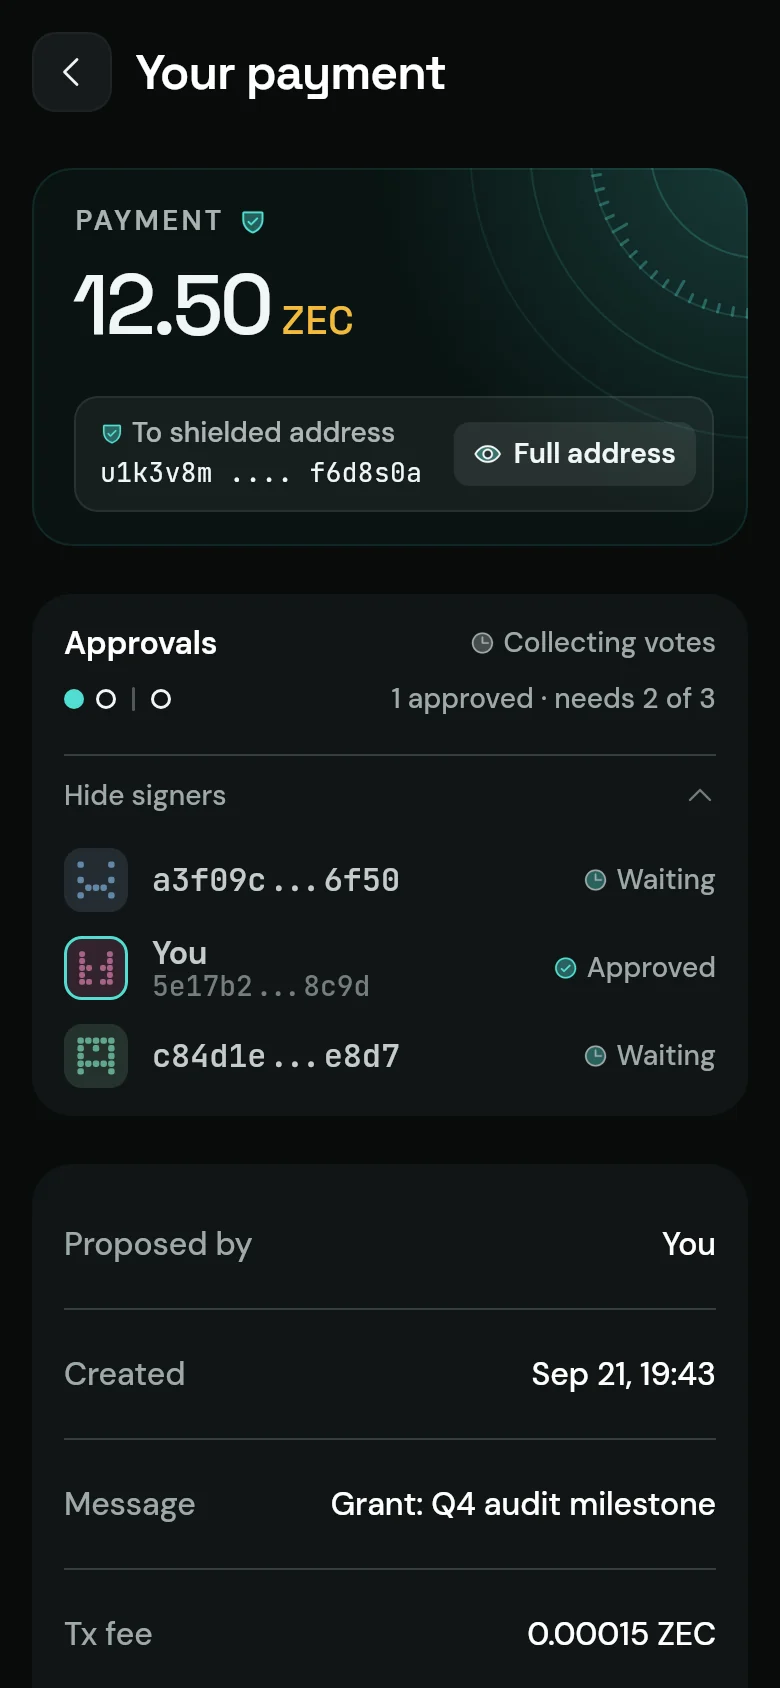
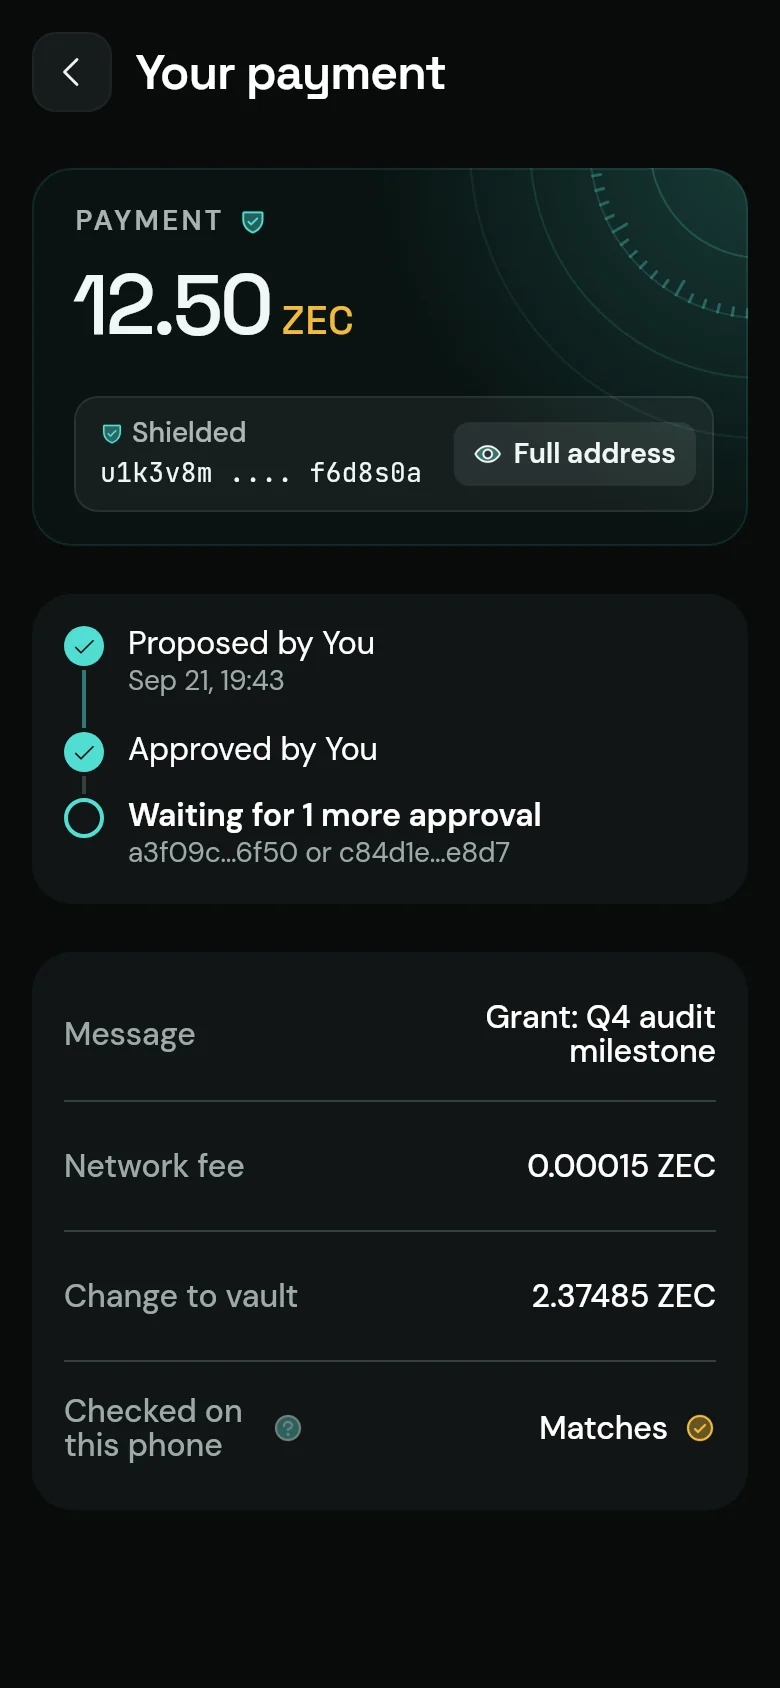
Site: new app screens, story taps on the new button positions, ZEC not TAZ
Re-rendered from the current app: review screens show the approval timeline.
The review crops end below Reject (the tall renders were mostly blank), the
proposer's review fixture shows the exact fee like the app, and the fallback
stills are re-shot.

diff --git a/app/tool/screens/proposal_render_test.dart b/app/tool/screens/proposal_render_test.dart
@@ -15,6 +15,7 @@ import 'package:flutter/rendering.dart';
 import 'package:flutter/services.dart';
 import 'package:flutter_riverpod/flutter_riverpod.dart';
 import 'package:flutter_test/flutter_test.dart';
+import 'package:zafe/src/core/config/network_config.dart';
 import 'package:zafe/src/core/layout/mobile/zafe_screen.dart';
 import 'package:zafe/src/core/theme/app_theme.dart';
 import 'package:zafe/src/core/widgets/app_button.dart';
@@ -236,28 +237,26 @@ final _scenarios = <String, (String, List<Widget>)>{
         onFullAddress: () {},
       ),
       const SizedBox(height: AppSpacing.lg),
-      const MobileSurfaceCard(
+      MobileSurfaceCard(
         cornerRadius: AppRadii.large,
         child: Column(
           children: [
-            DetailRow(label: 'Message', value: 'Grant: Q4 audit milestone'),
-            DetailDivider(),
-            DetailRow(label: 'Approvals needed', value: '2 of 3 signers'),
-            DetailDivider(),
-            DetailRow(label: 'Network fee', value: 'At least 0.0001 TAZ'),
+            const DetailRow(
+              label: 'Message',
+              value: 'Grant: Q4 audit milestone',
+            ),
+            const DetailDivider(),
+            const DetailRow(label: 'Approvals needed', value: '2 of 3 signers'),
+            const DetailDivider(),
+            DetailRow(
+              label: 'Network fee',
+              value: '0.00015 $kZcashDefaultCurrencyTicker',
+              onHelp: () {},
+            ),
           ],
         ),
       ),
-      const SizedBox(height: AppSpacing.sm),
-      Builder(
-        builder: (context) => Text(
-          'Nothing is sent yet. Each signer checks this payment on their own device and '
-          'approves with one tap; 2 approvals complete it.',
-          style: AppTypography.bodySmall.copyWith(
-            color: context.colors.text.secondary,
-          ),
-        ),
-      ),
+      const SizedBox(height: AppSpacing.lg),
       _actions('Propose payment', icon: AppIcons.plane, secondary: 'Cancel'),
     ],
   ),

diff --git a/infra/site/src/scripts/story-screens.js b/infra/site/src/scripts/story-screens.js
@@ -21,12 +21,12 @@ const NAMES = {
 
 const NEEDS_YOU = 'Ops fund: payment needs your approval';
 const SENT = 'Ops fund: payment sent';
-const SENT_BODY = '12.50 TAZ, approved by Bob and you.';
+const SENT_BODY = '12.50 ZEC, approved by Bob and you.';
 
 // Where things are on the renders, as fractions of the viewport (W x H).
 export const SPOT = {
   newPayment: [0.265, 0.366],
-  propose: [0.5, 0.787],
+  propose: [0.5, 0.758],
   approve: [0.5, 0.834], // on the approve screens once scrolled to the bottom
   banner: [0.5, 0.075],
   slot: [0.5, 0.127], // the sending screen's coin slot
@@ -291,7 +291,7 @@ export function drawMe(g, img, s, time) {
     slotCoins(g, time, clamp01((s.bPush - 0.5) * 2) * (1 - 0.6 * s.bDone));
     status(g, time, clamp01((s.bPush - 0.5) * 2), s.bDone);
   }
-  banner(g, s.banner, NEEDS_YOU, 'Bob proposed 12.50 TAZ.');
+  banner(g, s.banner, NEEDS_YOU, 'Bob proposed 12.50 ZEC.');
   banner(g, s.sentBanner * (1 - s.bDone), SENT, SENT_BODY);
   tap(g, SPOT.banner, s.tapB1, false);
   tap(g, SPOT.approve, s.tapB2, false);
@@ -301,7 +301,7 @@ export function drawMe(g, img, s, time) {
 export function drawCara(g, img, s) {
   g.clearRect(0, 0, W, H);
   drawFull(g, img.meHome);
-  banner(g, s.banner, NEEDS_YOU, 'Bob proposed 12.50 TAZ.');
+  banner(g, s.banner, NEEDS_YOU, 'Bob proposed 12.50 ZEC.');
   banner(g, s.sentBanner, SENT, SENT_BODY);
   if (s.caraDim > 0) {
     g.fillStyle = `rgba(9,14,14,${0.45 * s.caraDim})`;

diff --git a/infra/site/src/styles/site.css b/infra/site/src/styles/site.css
@@ -1001,7 +1001,7 @@ html.world-on .hero-still { opacity: 0; pointer-events: none; }
    of the 3D world (.lp-teaser) is the door to /showcase. */
 
 /* A phone: the app's render in a rounded frame. Light screens get a light edge, dark
-   ones a dark edge. Tall renders (2400 px) are cut at the phone's height. */
+   ones a dark edge. Tall renders are cut at the phone's height. */
 .lp-phone {
   display: block;
   width: 100%;

diff --git a/infra/site/assets.py b/infra/site/assets.py
@@ -24,17 +24,20 @@ OUT = os.path.join(ROOT, "infra", "site", "public", "assets")
 # (output name, source under app/build without the _light/_dark suffix, crop box). Screen
 # renders are 780 px wide (390 logical at 2x); boxes are in those pixels.
 PHONE = (0, 0, 780, 1688)  # a phone viewport: 390 x 844 at 2x
-TALL = (0, 0, 780, 2400)   # taller than the phone: the story scrolls it to the button
+# Taller than the phone: the story scrolls them to the bottom, where the Approve button
+# must sit at SPOT.approve (story-screens.js), 280 px above the crop's end.
+BOB_APPROVE = (0, 0, 780, 1870)
+ME_REVIEW = (0, 0, 780, 1936)
 
 CROPS = [
     # The scroll story: Bob's phone in dark mode, yours in light (proposal_render_test's
     # story_* scenarios and home_render_test with HOME_NOTICE=0).
     ("story_bob_home", "screen_preview/home", PHONE, "dark"),
     ("story_bob_propose", "screen_preview/story_bob_propose", PHONE, "dark"),
-    ("story_bob_approve", "screen_preview/story_bob_approve", TALL, "dark"),
+    ("story_bob_approve", "screen_preview/story_bob_approve", BOB_APPROVE, "dark"),
     ("story_bob_approved", "screen_preview/story_bob_approved", PHONE, "dark"),
     ("story_me_home", "screen_preview/home", PHONE, "light"),
-    ("story_me_review", "screen_preview/proposal_review", TALL, "light"),
+    ("story_me_review", "screen_preview/proposal_review", ME_REVIEW, "light"),
     ("story_me_sent", "screen_preview/story_me_sent", PHONE, "light"),
     # The sending screen (sending_render_test): the story's finale.
     ("story_me_sending", "screen_preview/sending_progress", PHONE, "light"),
